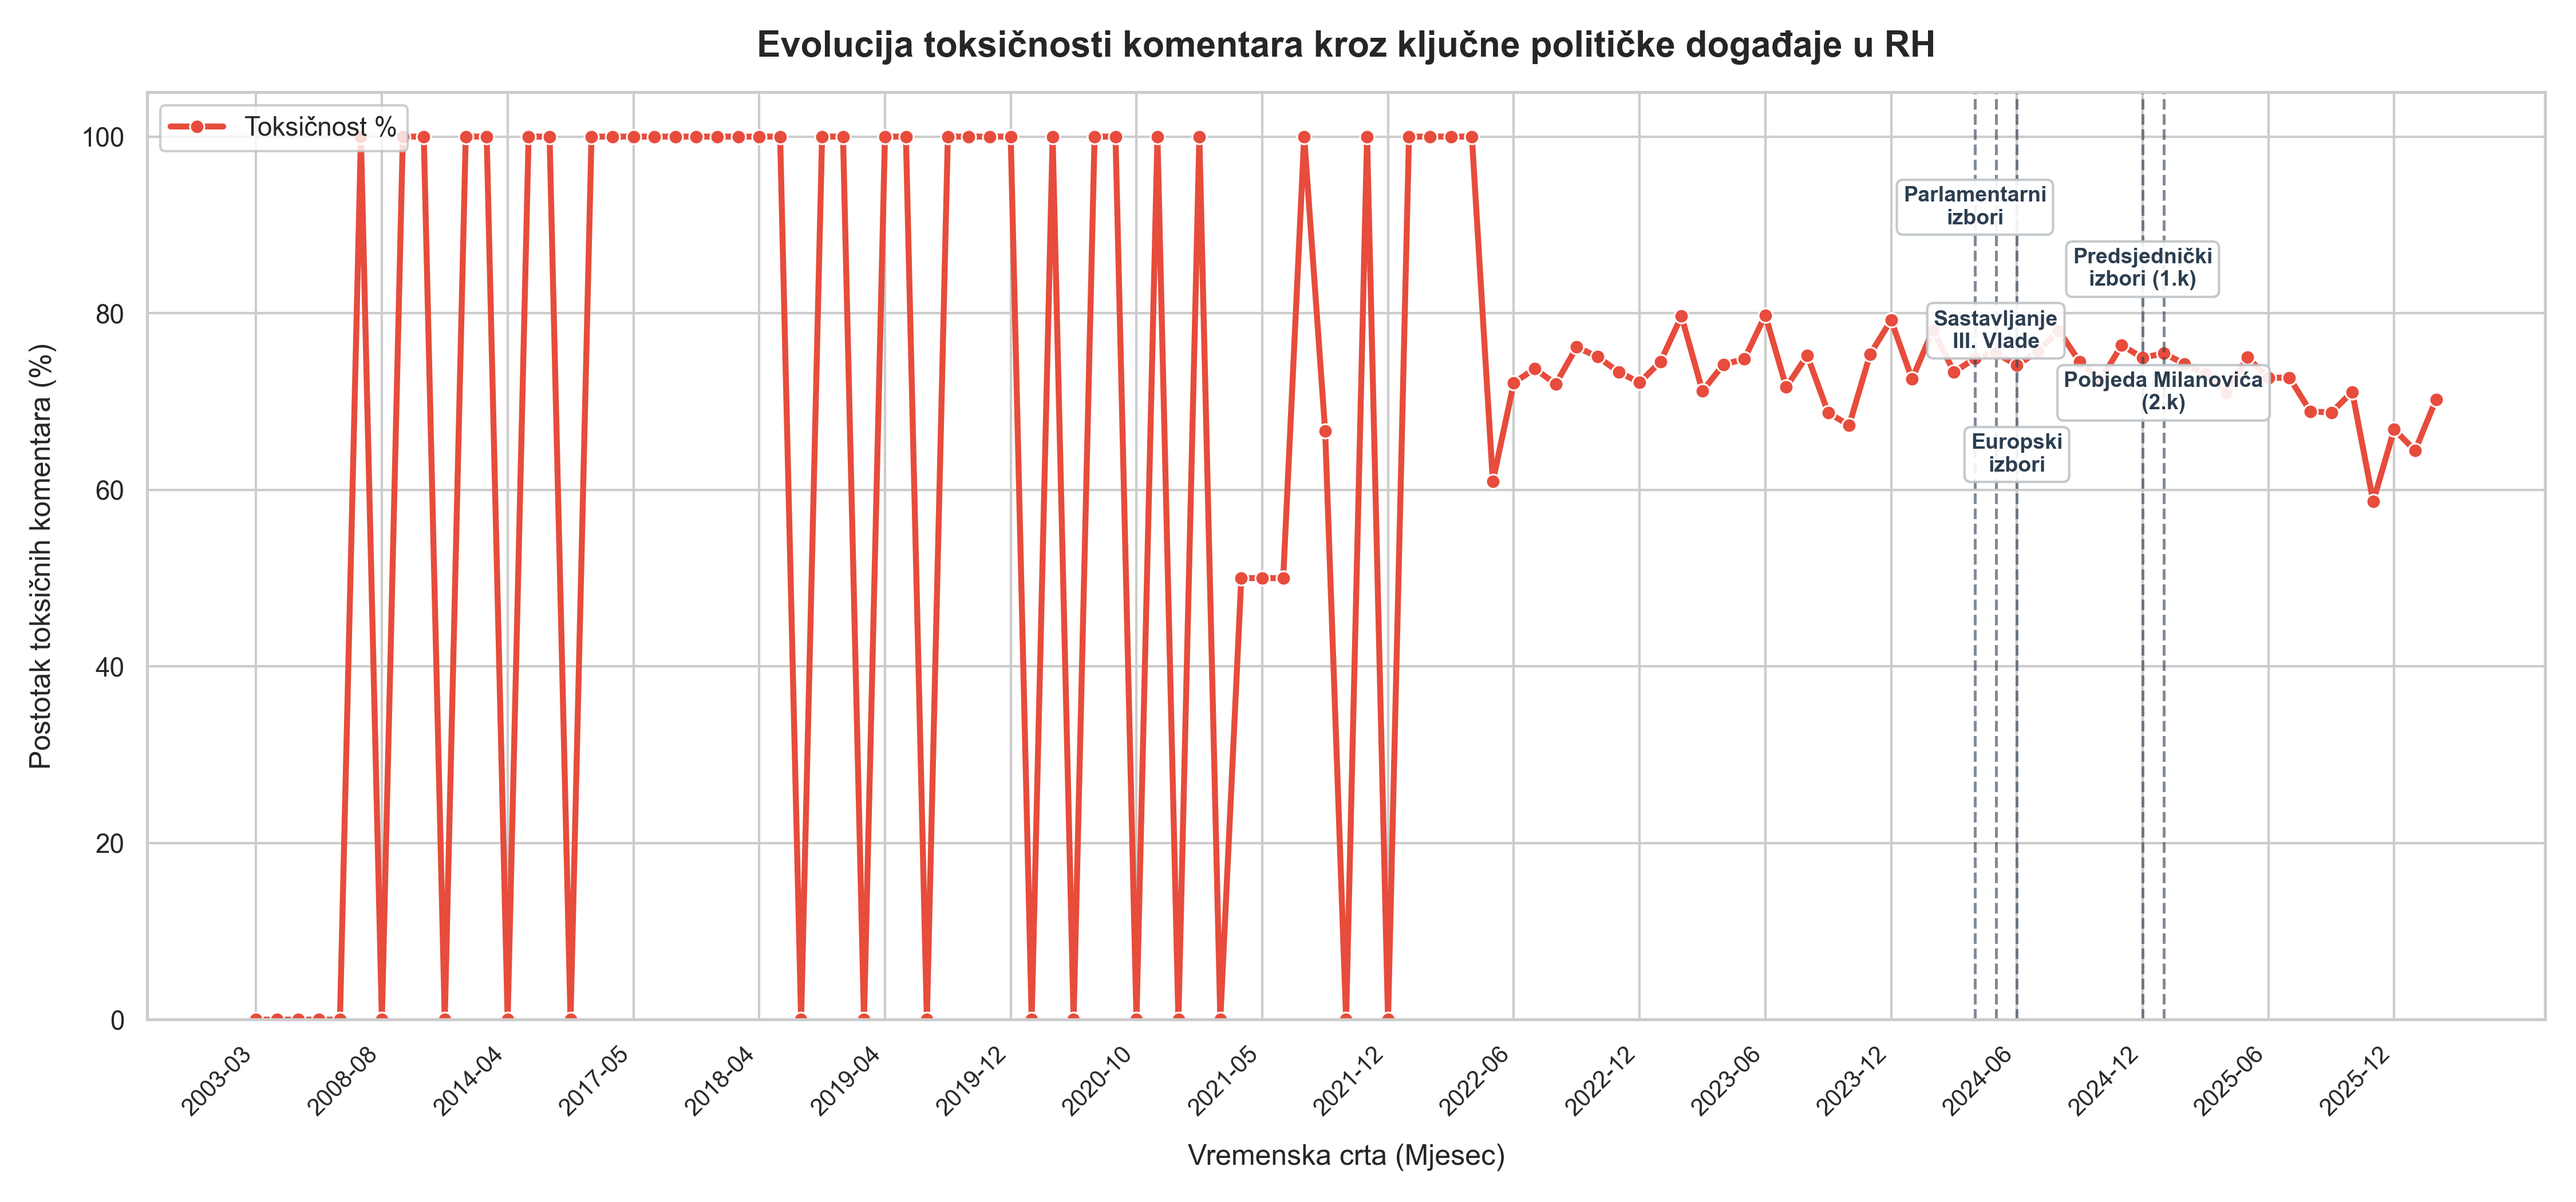
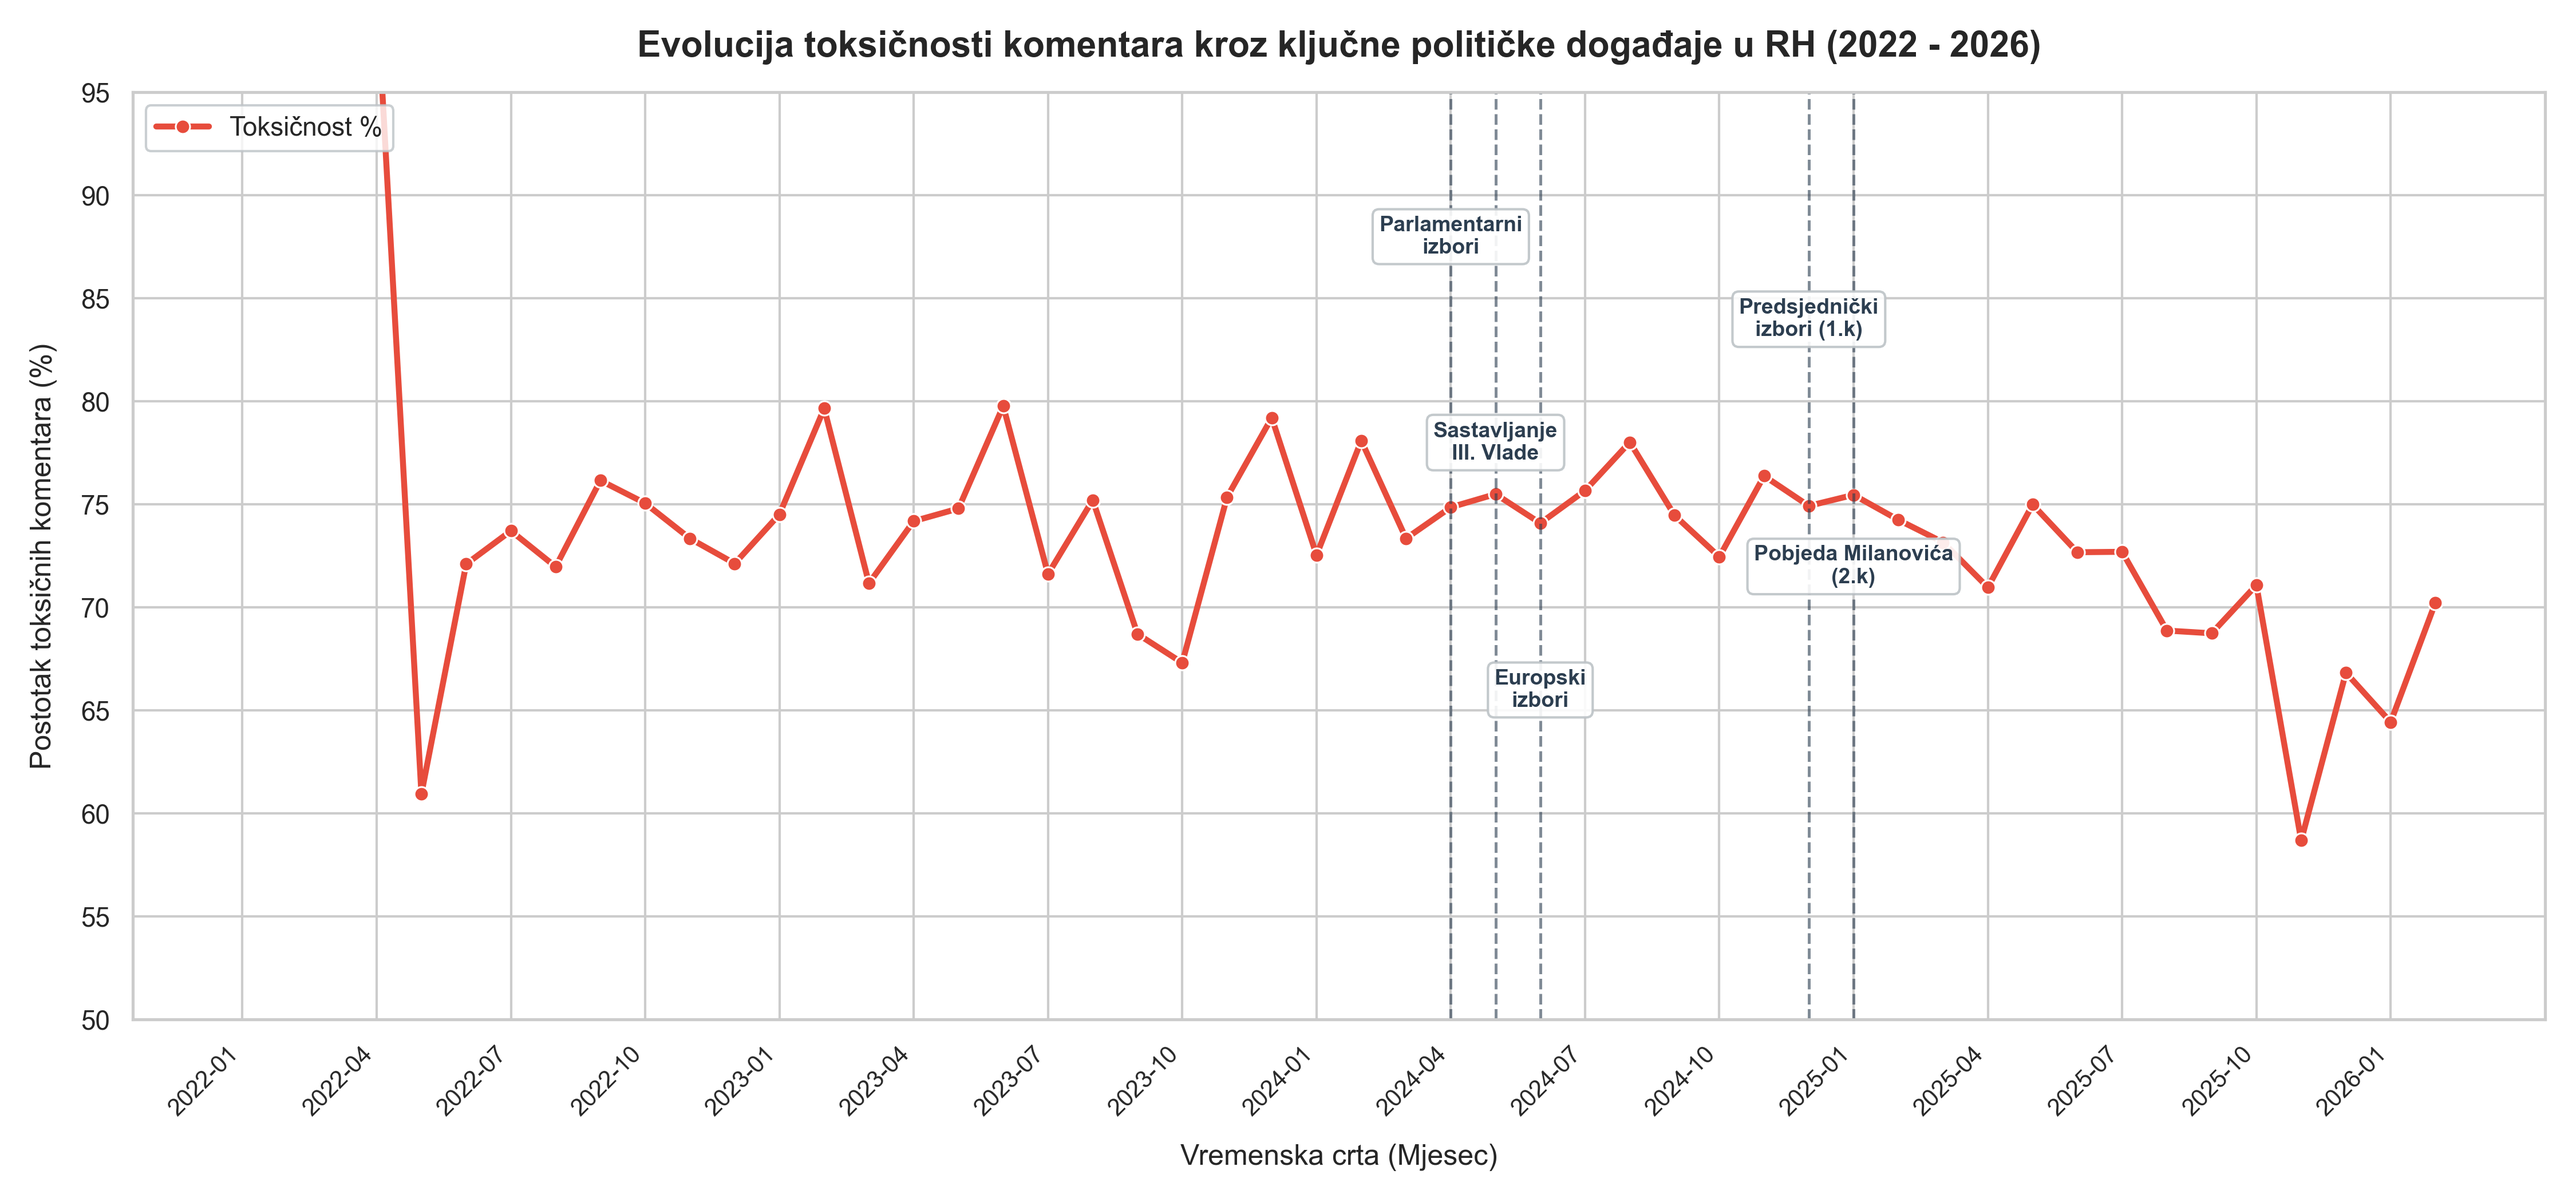
Update visualization script to filter data from 2022

diff --git a/temporal evaluation.py b/temporal evaluation.py
@@ -101,7 +101,7 @@ if p_val < 0.05:
 else:
     print("❌ Result: No statistically viable toxicity break found near the election threshold.")
 
-# 5. Visualizing Evolution alongside Context Milestones (PRETTIER VERSION)
+# 5. Visualizing Evolution alongside Context Milestones (FILTERED FOR 2022+)
 plt.figure(figsize=(15, 7))
 sns.set_theme(style="whitegrid")
 
@@ -111,8 +111,13 @@ if df['is_toxic'].max() <= 1.0:
 else:
     df['toxic_pct'] = df['is_toxic']
 
-# Grupiranje i crtanje osnovne linije
+# Grupiranje na mjesečnoj razini
 monthly_metrics = df.groupby('month_str')['toxic_pct'].mean().reset_index()
+
+# 🔥 KLJUČNI DODATAK: Filtriramo podatke i ostavljamo samo od siječnja 2022. nadalje
+monthly_metrics = monthly_metrics[monthly_metrics['month_str'] >= '2022-01'].reset_index(drop=True)
+
+# Crtanje osnovne linije trenda (sada samo za razdoblje 2022-2026)
 ax = sns.lineplot(
     data=monthly_metrics, 
     x='month_str', 
@@ -123,12 +128,12 @@ ax = sns.lineplot(
     label='Toksičnost %'
 )
 
-# --- POPRAVAK 1: Pametno prorjeđivanje X-osi ---
-# Prikazujemo svaku 6. oznaku (polugodišnje) umjesto svake pojedinačne, da se datumi ne preklapaju
+# --- PAMETNO PRORJEĐIVANJE X-OSI ---
+# Budući da sada imamo manje mjeseci na grafu (oko 50 umjesto 105), prikazujemo svaki 3. mjesec za optimalnu čitljivost
 x_ticks = monthly_metrics['month_str'].values
-plt.xticks(ticks=range(0, len(x_ticks), 6), labels=x_ticks[::6], rotation=45, ha='right', fontsize=10)
+plt.xticks(ticks=range(0, len(x_ticks), 3), labels=x_ticks[::3], rotation=45, ha='right', fontsize=10)
 
-# --- POPRAVAK 2: Cik-cak pozicioniranje oznaka događaja ---
+# --- CIK-CAK POZICIONIRANJE OZNAKA DOGAĐAJA ---
 milestones = {
     '2024-04': 'Parlamentarni\nizbori',
     '2024-05': 'Sastavljanje\nIII. Vlade',
@@ -137,9 +142,8 @@ milestones = {
     '2025-01': 'Pobjeda Milanovića\n(2.k)'
 }
 
-# Definiramo različite visine za tekst kako se ne bi sudarali (cik-cak efekt)
-y_max = monthly_metrics['toxic_pct'].max()
-height_levels = [y_max * 0.92, y_max * 0.78, y_max * 0.64, y_max * 0.85, y_max * 0.71]
+# Definiramo visine unutar stvarnog raspona podataka (između 50% i 90% jer linija više ne pada na nulu)
+height_levels = [88, 78, 66, 84, 72]
 
 for idx, (date, label) in enumerate(milestones.items()):
     if date in monthly_metrics['month_str'].values:
@@ -149,7 +153,7 @@ for idx, (date, label) in enumerate(milestones.items()):
         # Odabir visine za ovaj specifični tekst
         current_y = height_levels[idx % len(height_levels)]
         
-        # Ispis teksta s elegantnim bijelim okvirom
+        # Ispis natpisa s elegantnim bijelim okvirom
         plt.text(
             date, current_y, label, 
             rotation=0, fontsize=9, weight='bold', color='#2c3e50',
@@ -158,13 +162,16 @@ for idx, (date, label) in enumerate(milestones.items()):
         )
 
 # Minimalističko poliranje ostatka grafikona
-plt.title("Evolucija toksičnosti komentara kroz ključne političke događaje u RH", fontsize=15, weight='bold', pad=15)
+plt.title("Evolucija toksičnosti komentara kroz ključne političke događaje u RH (2022 - 2026)", fontsize=15, weight='bold', pad=15)
 plt.xlabel("Vremenska crta (Mjesec)", fontsize=12, labelpad=10)
 plt.ylabel("Postotak toksičnih komentara (%)", fontsize=12, labelpad=10)
-plt.ylim(0, 105) # Fiksna skala od 0 do 100% radi lakšeg čitanja konteksta
+
+# Sužavamo Y-os na raspon od 50% do 95% jer se u tom rasponu kreću stvarni podaci od 2022.
+# Na taj način će se bolje vidjeti sitne oscilacije i stvarni utjecaj izbora!
+plt.ylim(50, 95) 
 
 plt.legend(loc='upper left', frameon=True, facecolor='white', edgecolor='#bdc3c7')
 plt.tight_layout()
 
-plt.savefig('political_evolution_timeline.png', dpi=300) # dpi=300 osigurava oštru sliku za rad
-print("\n📈 Prettier visualization compiled to 'political_evolution_timeline.png'")
+plt.savefig('political_evolution_timeline.png', dpi=300)
+print("\n📈 Prettier filtered visualization compiled to 'political_evolution_timeline.png'")
